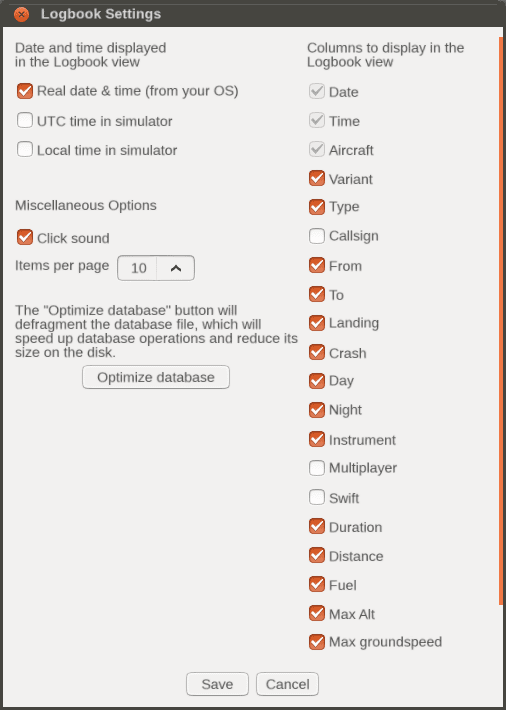
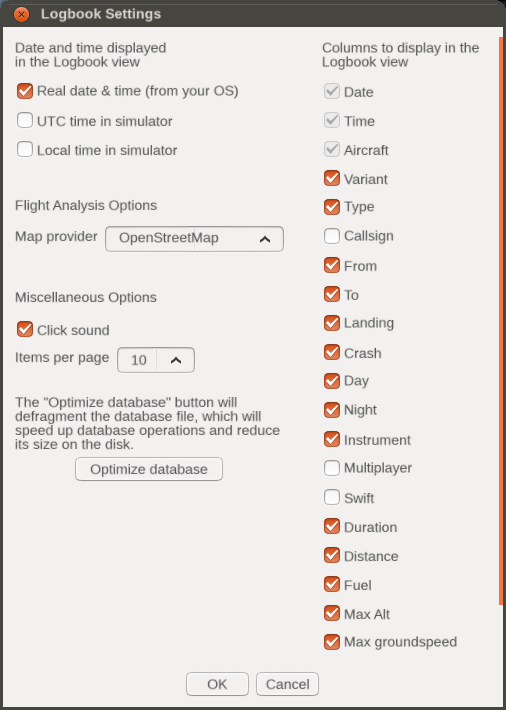
Update README file

diff --git a/README.md b/README.md
@@ -227,7 +227,10 @@ The map shows the aircraft's position and heading.
 
 The path the aircraft flew is drawn with a blue line.
 
-In the upper left corner you have information about the map zoom level.
+In the upper left corner you have information about the map zoom level. Below are the following buttons:
+
+* OpenStreetMap - change map provider to OpenStreetMap
+* OpenTopoMap - change map provider to OpenTopoMap
 
 In the upper right corner you have information about wind direction and speed (wind barbs).
 
@@ -257,7 +260,7 @@ Here you can configure the following options:
 
 2. `Columns to display in the Logbook view` – here you can specify which columns are to be displayed in the Logbook window. The fewer columns are displayed, the faster the Logbook window will be drawn. Columns such as `Date`, `Time` and `Aircraft` are always displayed, the `Note` column will never be displayed and this cannot be changed. These options are only available for FG >= 2024.1.
 
-3. `Map provider` – here you can specify the map tile provider in the Flight Analysis view. Available providers are `OpenStreetMap` and `OpenTopoMap`,
+3. `Map provider` – here you can specify default map tile provider in the Flight Analysis view. Available providers are `OpenStreetMap` and `OpenTopoMap`,
 
 4. `Click sound` – by default, a sound is played when you click on various buttons, you can turn this sound off here.
 
